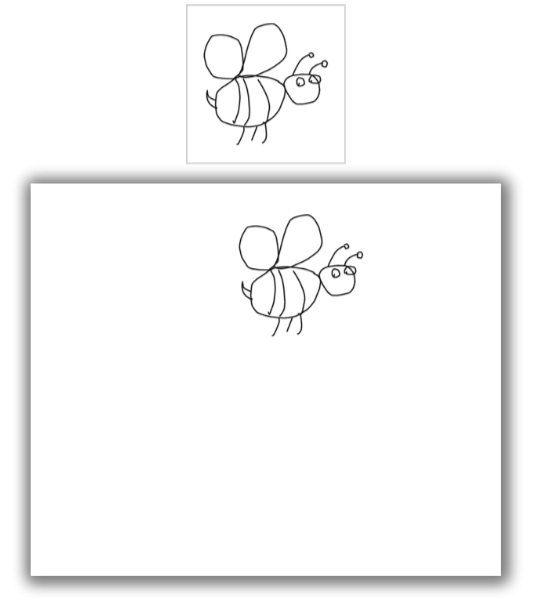
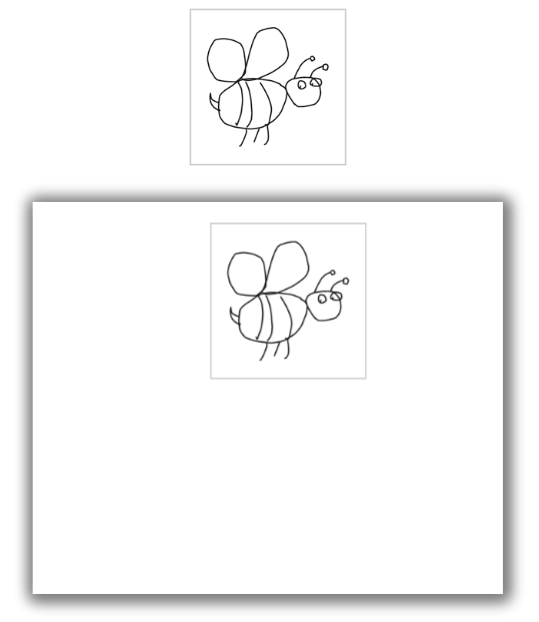
update

diff --git a/paintApp/src/component/viewer.js b/paintApp/src/component/viewer.js
@@ -2,7 +2,7 @@
  * @Author: Ruth
  * @Date:   2017-03-28 14:40:02
  * @Last Modified by:   Ruth
- * @Last Modified time: 2017-03-29 15:48:00
+ * @Last Modified time: 2017-03-29 16:03:44
  */
 
 'use strict';
@@ -84,7 +84,7 @@ export default class Viewer {
                     // 如果进入画布
                 } else if (this.intoPainter(clone_rect)) {
                     this.setBasePlate(); // 清空底板
-                    this.drawResult(el); // 在painter上进行绘画
+                    // this.drawResult(el); // 在painter上进行绘画
 
                     // 否则回到初始状态
                 } else {
@@ -92,7 +92,7 @@ export default class Viewer {
                 }
 
                 this.dragging = false;
-                this.$clone.remove(); // 移除clone对象
+                // this.$clone.remove(); // 移除clone对象
 
                 break;
             default:
